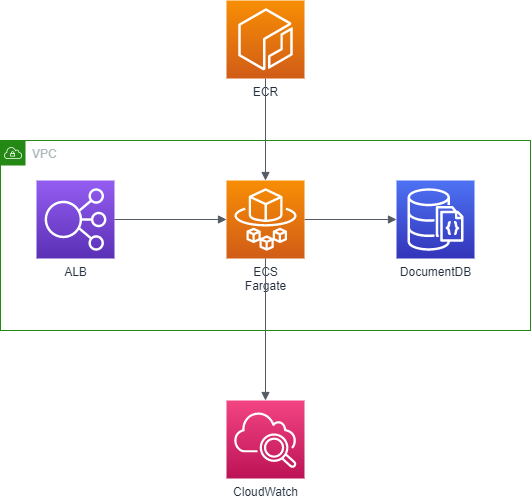
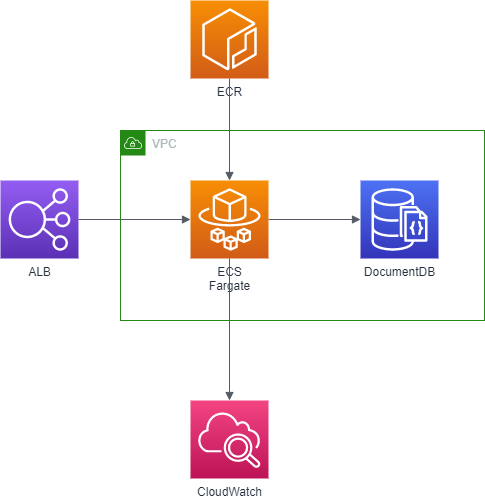
README.md update

diff --git a/README.md b/README.md
@@ -44,12 +44,15 @@ that were introduced during development. In particular:
 # Solution
 
 ## Architecture
+Phoenix application will be containerized and exposed with ECS Fargate as orchestration engine with an Application Load 
+Balancer to distribute the load. For the database layer instead of using plain MongoDB will be used DocumentDB, AWS managed service
+for running MongoDB. Logs will be shipped to AWS CloudWatch. 
 
-Following the architecture overview 
+Docker images will be manged by AWS managed docker registry ECR
 
 ![Architecture](images/architecture.png)
 
-Following the Release change pipelie architecture overview
+Following the Release change pipeline architecture overview
 
 ![Deployment](images/deploymet.png)
 
